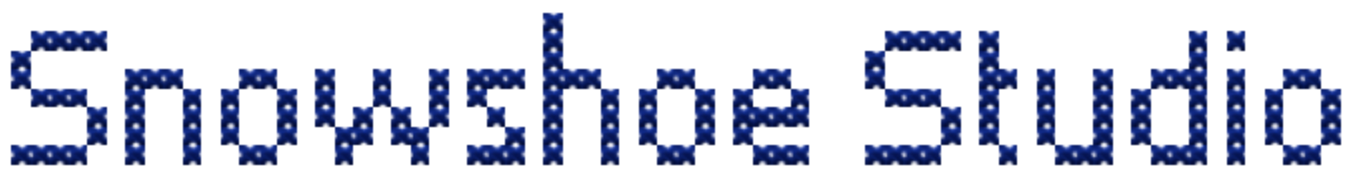
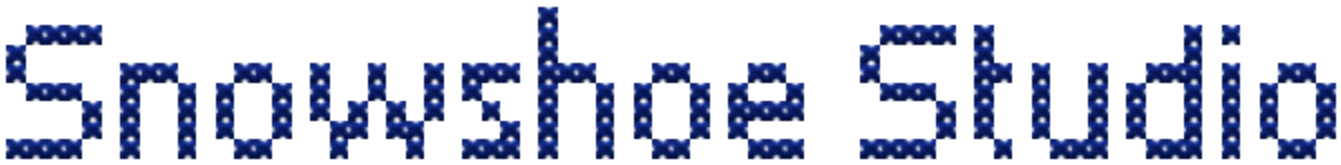
Add snowshoe_hare_delft.png to file and resize #snowshoe-hare

Changed region(s): [[0.0, 0.0303, 0.6115, 0.9697], [0.6421, 0.1212, 1.0, 0.9697]]

diff --git a/snowshoe_trial.css b/snowshoe_trial.css
@@ -13,7 +13,7 @@ html, body {
 }
 
 #snowshoe-hare {
-    max-width: 150px; /* Adjust size of the image */
+    max-width: 100px; /* Adjust size of the image */
     margin-bottom: 5px; /* Ensure there's minimal space between the image and the text */
     margin-top: 0px;
 }
